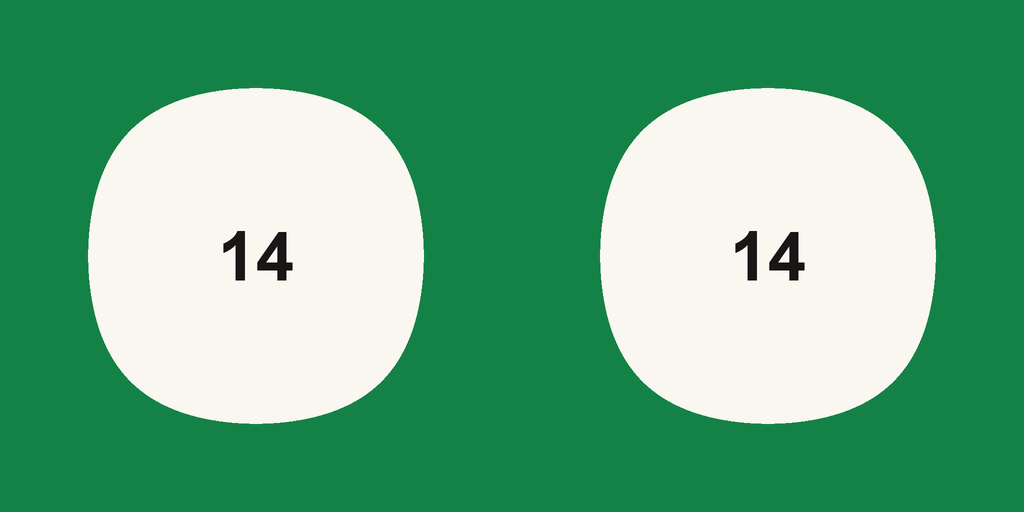
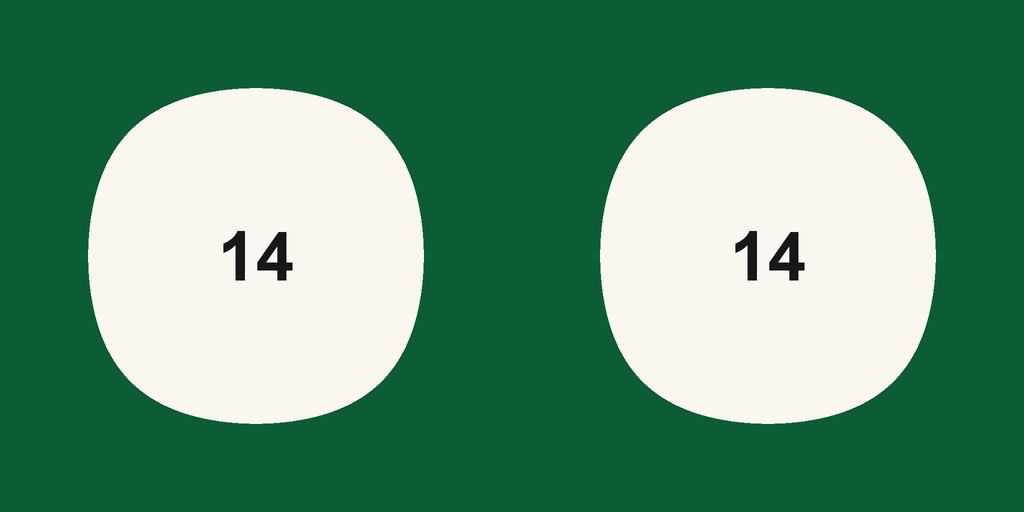
Deeper green for balls 6 and 14 so they stand out on the green cloth
New textures uploaded; the HUD balls follow Config.Balls.Colors.

diff --git a/tools/gen_ball_textures.py b/tools/gen_ball_textures.py
@@ -29,7 +29,7 @@ COLORS = {
     3: (210, 40, 40),
     4: (100, 40, 150),
     5: (245, 120, 30),
-    6: (20, 130, 70),
+    6: (12, 92, 52),
     7: (120, 30, 30),
     8: (20, 20, 22),
 }

diff --git a/docs/STATUS.md b/docs/STATUS.md
@@ -1,6 +1,17 @@
 # Status
 
-**2026-09-27 (latest): the host card goes at once off the pad; a smaller request popup.**
+**2026-09-27 (latest): the green balls are deeper green.**
+
+- **Built:** balls 6 and 14 in RGB 12, 92, 52 (was 20, 130, 70): `Config.Balls.Colors[6]`
+  (the HUD balls too) and `tools/gen_ball_textures.py`; tex_6 and tex_14 regenerated and
+  uploaded from Studio (new ids in `Config.Balls.Textures`). Against the green cloth the colour
+  difference went from 17.2 to 31.6 (CIEDE2000).
+- **Verified:** lint clean, 366 tests pass; Studio: every table's 6 and 14 carry the new
+  textures, and a close-up of a rack shows them clearly apart from the cloth.
+
+---
+
+**2026-09-27: the host card goes at once off the pad; a smaller request popup.**
 
 - **Built:** stepping off the pad hides the host's card on your own screen at once
   (`QueueMenu.setAway`), before the server's exit grace lets you go; back on in time, it

diff --git a/docs/DECISIONS.md b/docs/DECISIONS.md
@@ -1434,3 +1434,6 @@ caps switch), leaving the plain tiled cloth; no new images needed.
 - 2026-09-27: The host's card goes the moment the host steps off the pad, not after the
   server's exit grace; the request popup is smaller and lower (250 x 66, was 330 x 96) so it
   clears the player's legs, its buttons keeping a 44 px touch area (designer).
+- 2026-09-27: The green balls (6 and 14) are a deeper green, RGB 12, 92, 52 (was 20, 130, 70),
+  so they stand out on the green cloth: CIEDE2000 against the cloth 31.6 (was 17.2), still
+  30.6 from the 8 (designer asked; the shade is Claude's pick).
